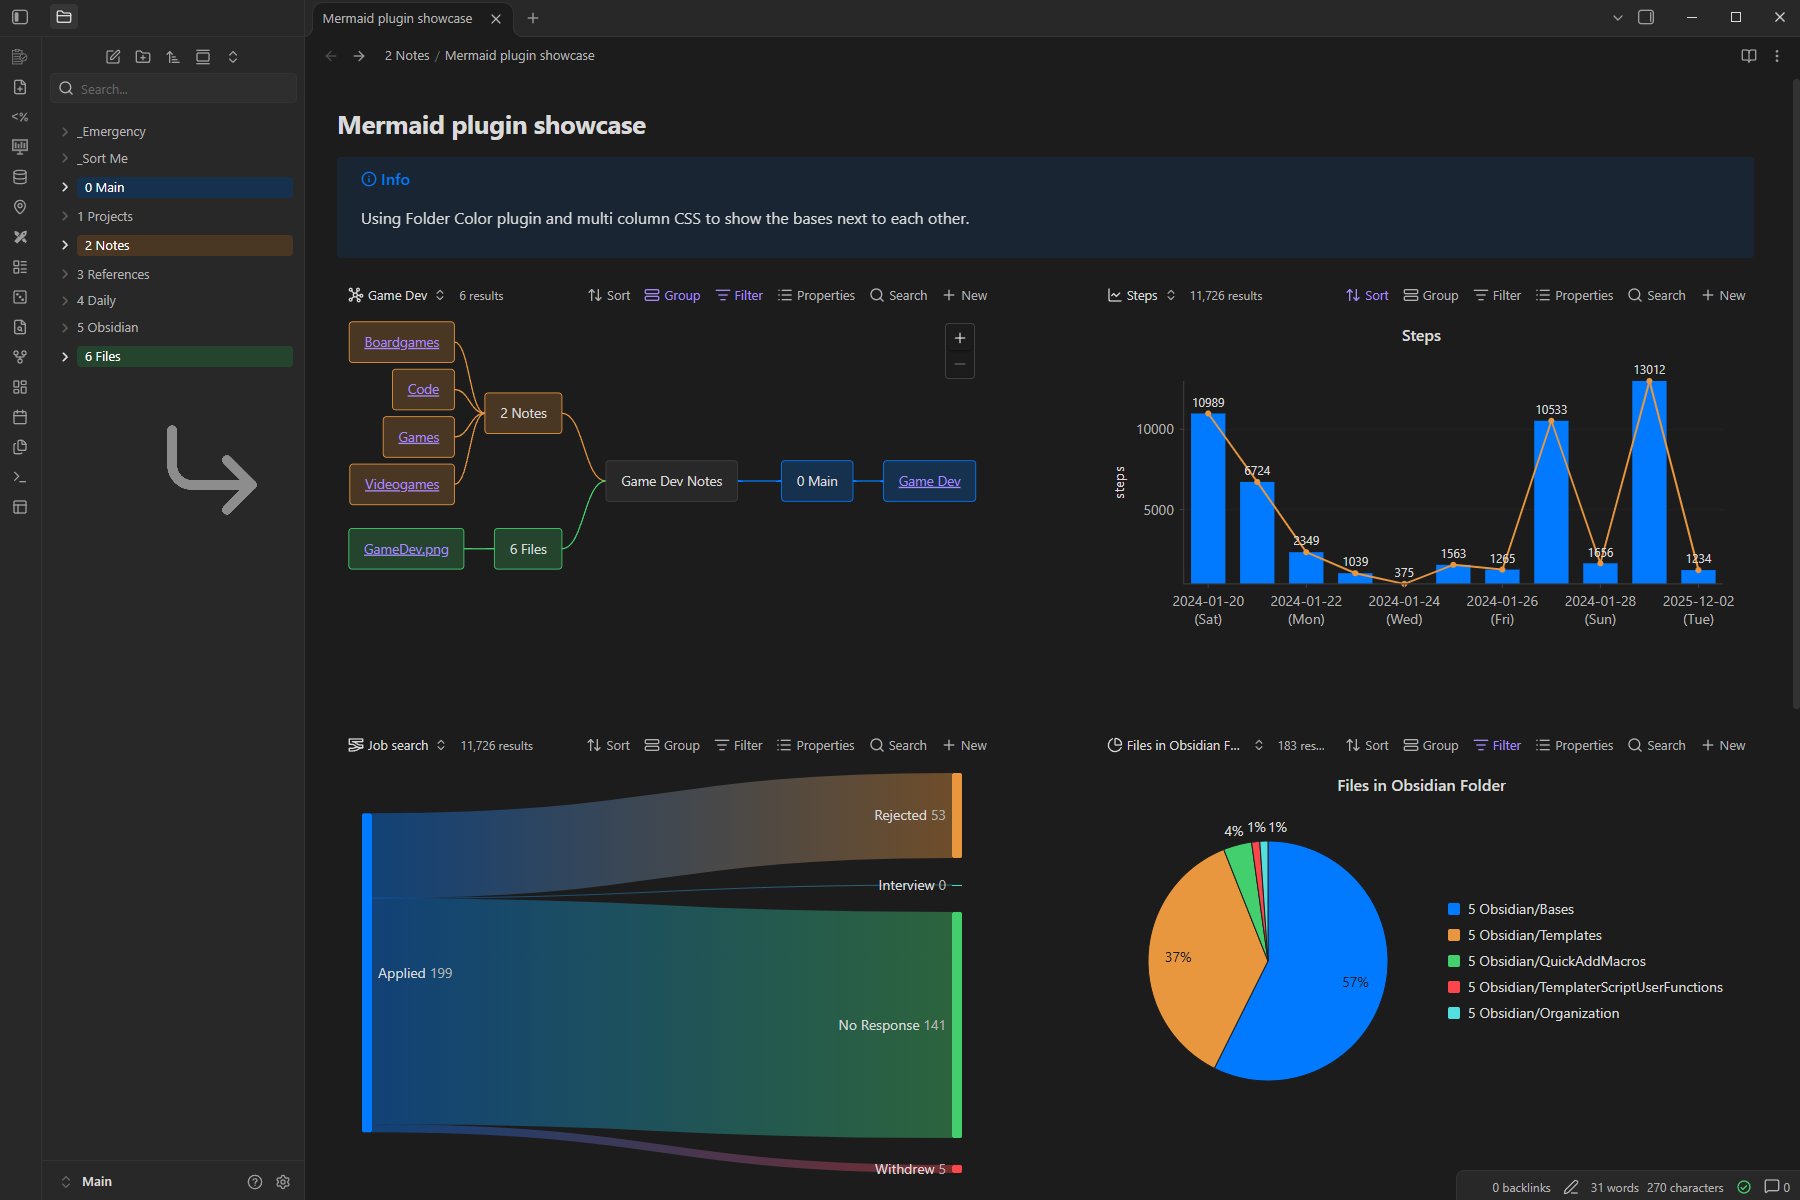
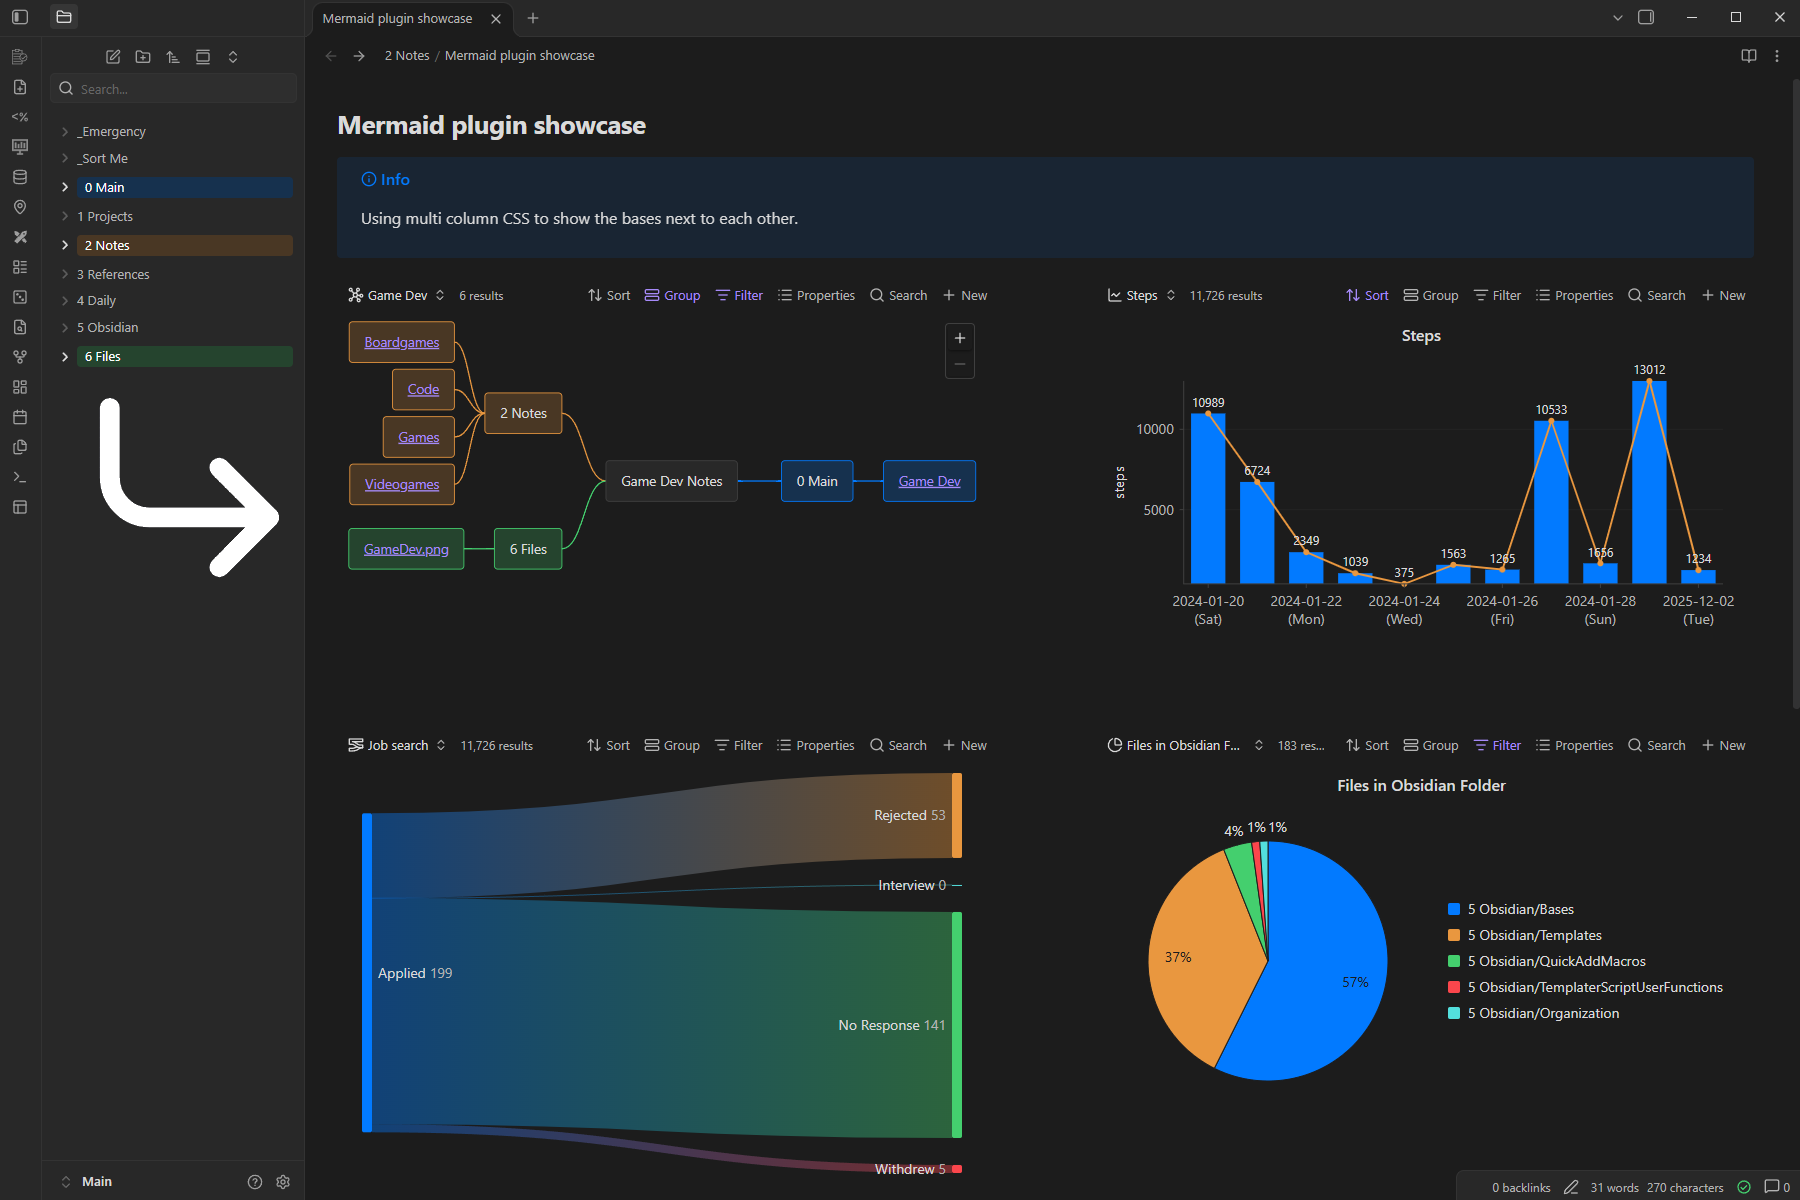
update readme

Changed region(s): [[0.0311, 0.3392, 0.1556, 0.4933], [0.2178, 0.1542, 0.4356, 0.185], [0.4978, 0.1542, 0.5289, 0.185]]

diff --git a/README.md b/README.md
@@ -8,7 +8,7 @@
 >
 > Uses Obsidian's built-in [Pele](https://pele.run/) renderer with [Mermaid](https://mermaid.js.org/) syntax.
 
-<img alt="Flowchart example" src="https://github.com/Nitero/obsidian-mermaid-base-views/blob/master/images/showcase.png" />
+<img alt="Flowchart example" src="images/showcase.png" />
 
 # Table of Contents
 
@@ -42,7 +42,7 @@
 3. Configure the [view settings](#base-view-settings). Most views require a main property, e.g. a numeric **Y-axis property** in the [XY chart](#xy-chart).
 4. Use [native Base features](#base-features) to filter, sort, group and search where supported.
 
-<img width="792" height="374" alt="20261103-1628-22 4456199-ezgif com-video-to-gif-converter" src="https://github.com/user-attachments/assets/48a62769-f90e-43e0-8df0-bdcac8f5be78" />
+<img alt="Usage example" src="images/usage.gif" />
 
 # ⚙ Settings
 
@@ -164,7 +164,7 @@ Support for other native Base features varies by view type:
 
 ### Flowchart
 
-<img align="right" width="400" alt="Flowchart example" src="https://github.com/Nitero/obsidian-mermaid-base-views/blob/master/images/flowchart.png" />
+<img align="right" width="400" alt="Flowchart example" src="images/flowchart.png" />
 
 Shows links between notes, useful for exploring relationships and dependencies.
 
@@ -176,7 +176,7 @@ Linked notes outside the Base's results are hidden unless **Show links to filter
 
 ### Mindmap
 
-<img align="right" width="400" alt="Mindmap example" src="https://github.com/Nitero/obsidian-mermaid-base-views/blob/master/images/mindmap.png" />
+<img align="right" width="400" alt="Mindmap example" src="images/mindmap.png" />
 
 Arranges linked notes into branches, useful for topic outlines and hierarchical collections.
 
@@ -190,7 +190,7 @@ Each note appears at most once. When several notes link to the same target, it a
 
 ### Tree view
 
-<img align="right" width="400" alt="Tree view example" src="https://github.com/Nitero/obsidian-mermaid-base-views/blob/master/images/tree-view.png" />
+<img align="right" width="400" alt="Tree view example" src="images/tree-view.png" />
 
 Shows the Base's files in a foldable folder hierarchy using [Mermaid TreeView](https://mermaid.ai/open-source/syntax/treeView.html). Empty folders are omitted.
 
@@ -198,7 +198,7 @@ Shows the Base's files in a foldable folder hierarchy using [Mermaid TreeView](h
 
 Folders stay alphabetical; Base sorting controls files within each branch. Filenames link to notes, and other selected properties appear as annotations.
 
-**Icon property** sets each file's icon or image. Select a property or formula containing a Lucide icon name, a local image embed such as `![[cover.png]]`, or an `icon()` / `image()` value. [External image URLs](#external-images-and-privacy) require **Allow external images**. Use `none` to hide a file's default icon.
+**Icon property** sets each file's icon or image. Select a property or formula containing a Lucide icon name, a local image embed such as `![[cover.png]]`, or an `icon()` / `image()` value. Use `none` to hide a file's default icon.
 
 **Show file/folder icons** toggles default icons. **Highlight property (optional)** highlights notes where a boolean property or formula is `true`.
 
@@ -206,7 +206,7 @@ Folders stay alphabetical; Base sorting controls files within each branch. Filen
 
 ### Timeline
 
-<img align="right" width="400" alt="Timeline example" src="https://github.com/Nitero/obsidian-mermaid-base-views/blob/master/images/timeline.png" />
+<img align="right" width="400" alt="Timeline example" src="images/timeline.png" />
 
 Places notes in chronological periods, useful for journals, release histories, and milestones.
 
@@ -220,7 +220,7 @@ When grouped, each section has its own chronological periods and sections follow
 
 ### Gantt
 
-<img align="right" width="400" alt="Gantt example" src="https://github.com/Nitero/obsidian-mermaid-base-views/blob/master/images/gantt.png" />
+<img align="right" width="400" alt="Gantt example" src="images/gantt.png" />
 
 Shows time spans and date markers, useful for project schedules and daily plans.
 
@@ -236,13 +236,13 @@ Text dates accept ISO dates or times such as `09:30`. Time-only starts use today
 
 **Bar color property (optional)** styles time spans using `active`, `done`, or `crit` values from a property or formula. It does not affect point events.
 
-**Icon property** sets icons or images for point events. Select a property or formula containing a Lucide icon name, a local image embed such as `![[cover.png]]`, or an `icon()` / `image()` value. [External image URLs](#external-images-and-privacy) require **Allow external images**.
+**Icon property** sets icons or images for point events. Select a property or formula containing a Lucide icon name, a local image embed such as `![[cover.png]]`, or an `icon()` / `image()` value.
 
 ## Numeric Views
 
 ### XY Chart
 
-<img align="right" width="400" alt="XY chart example" src="https://github.com/Nitero/obsidian-mermaid-base-views/blob/master/images/xy-chart.png" />
+<img align="right" width="400" alt="XY chart example" src="images/xy-chart.png" />
 
 Compares one numeric value per note using bars, a line, or both.
 
@@ -254,7 +254,7 @@ The X-axis uses note labels in Base sort order. Dates are treated as equally spa
 
 ### Quadrant Chart
 
-<img align="right" width="400" alt="Quadrant chart example" src="https://github.com/Nitero/obsidian-mermaid-base-views/blob/master/images/quadrant-chart.png" />
+<img align="right" width="400" alt="Quadrant chart example" src="images/quadrant-chart.png" />
 
 Plots notes on 4 areas using two numeric properties, such as importance and urgency. Requires **X coordinate property** and **Y coordinate property**.
 
@@ -266,7 +266,7 @@ The left and bottom axis labels default to the selected properties' display name
 
 ### Radar Chart
 
-<img align="right" width="400" alt="Radar chart example" src="https://github.com/Nitero/obsidian-mermaid-base-views/blob/master/images/radar-chart.png" />
+<img align="right" width="400" alt="Radar chart example" src="images/radar-chart.png" />
 
 Compares several properties across notes on radial axes, useful for habit tracking or character attributes.
 
@@ -280,7 +280,7 @@ All axes share one scale, so use comparable units or formulas that convert value
 
 ### Pie Chart
 
-<img align="right" width="400" alt="Pie chart example" src="https://github.com/Nitero/obsidian-mermaid-base-views/blob/master/images/pie-chart.png" />
+<img align="right" width="400" alt="Pie chart example" src="images/pie-chart.png" />
 
 Shows proportions across categories, useful for task counts by status or spending by category.
 
@@ -292,7 +292,7 @@ List properties form a single combined category rather than separate slices. Whe
 
 ### Sankey
 
-<img align="right" width="400" alt="Sankey diagram example" src="https://github.com/Nitero/obsidian-mermaid-base-views/blob/master/images/sankey.png" />
+<img align="right" width="400" alt="Sankey diagram example" src="images/sankey.png" />
 
 Shows the relative size of flows between named sources and targets, useful for budgets or resource allocation.
 
